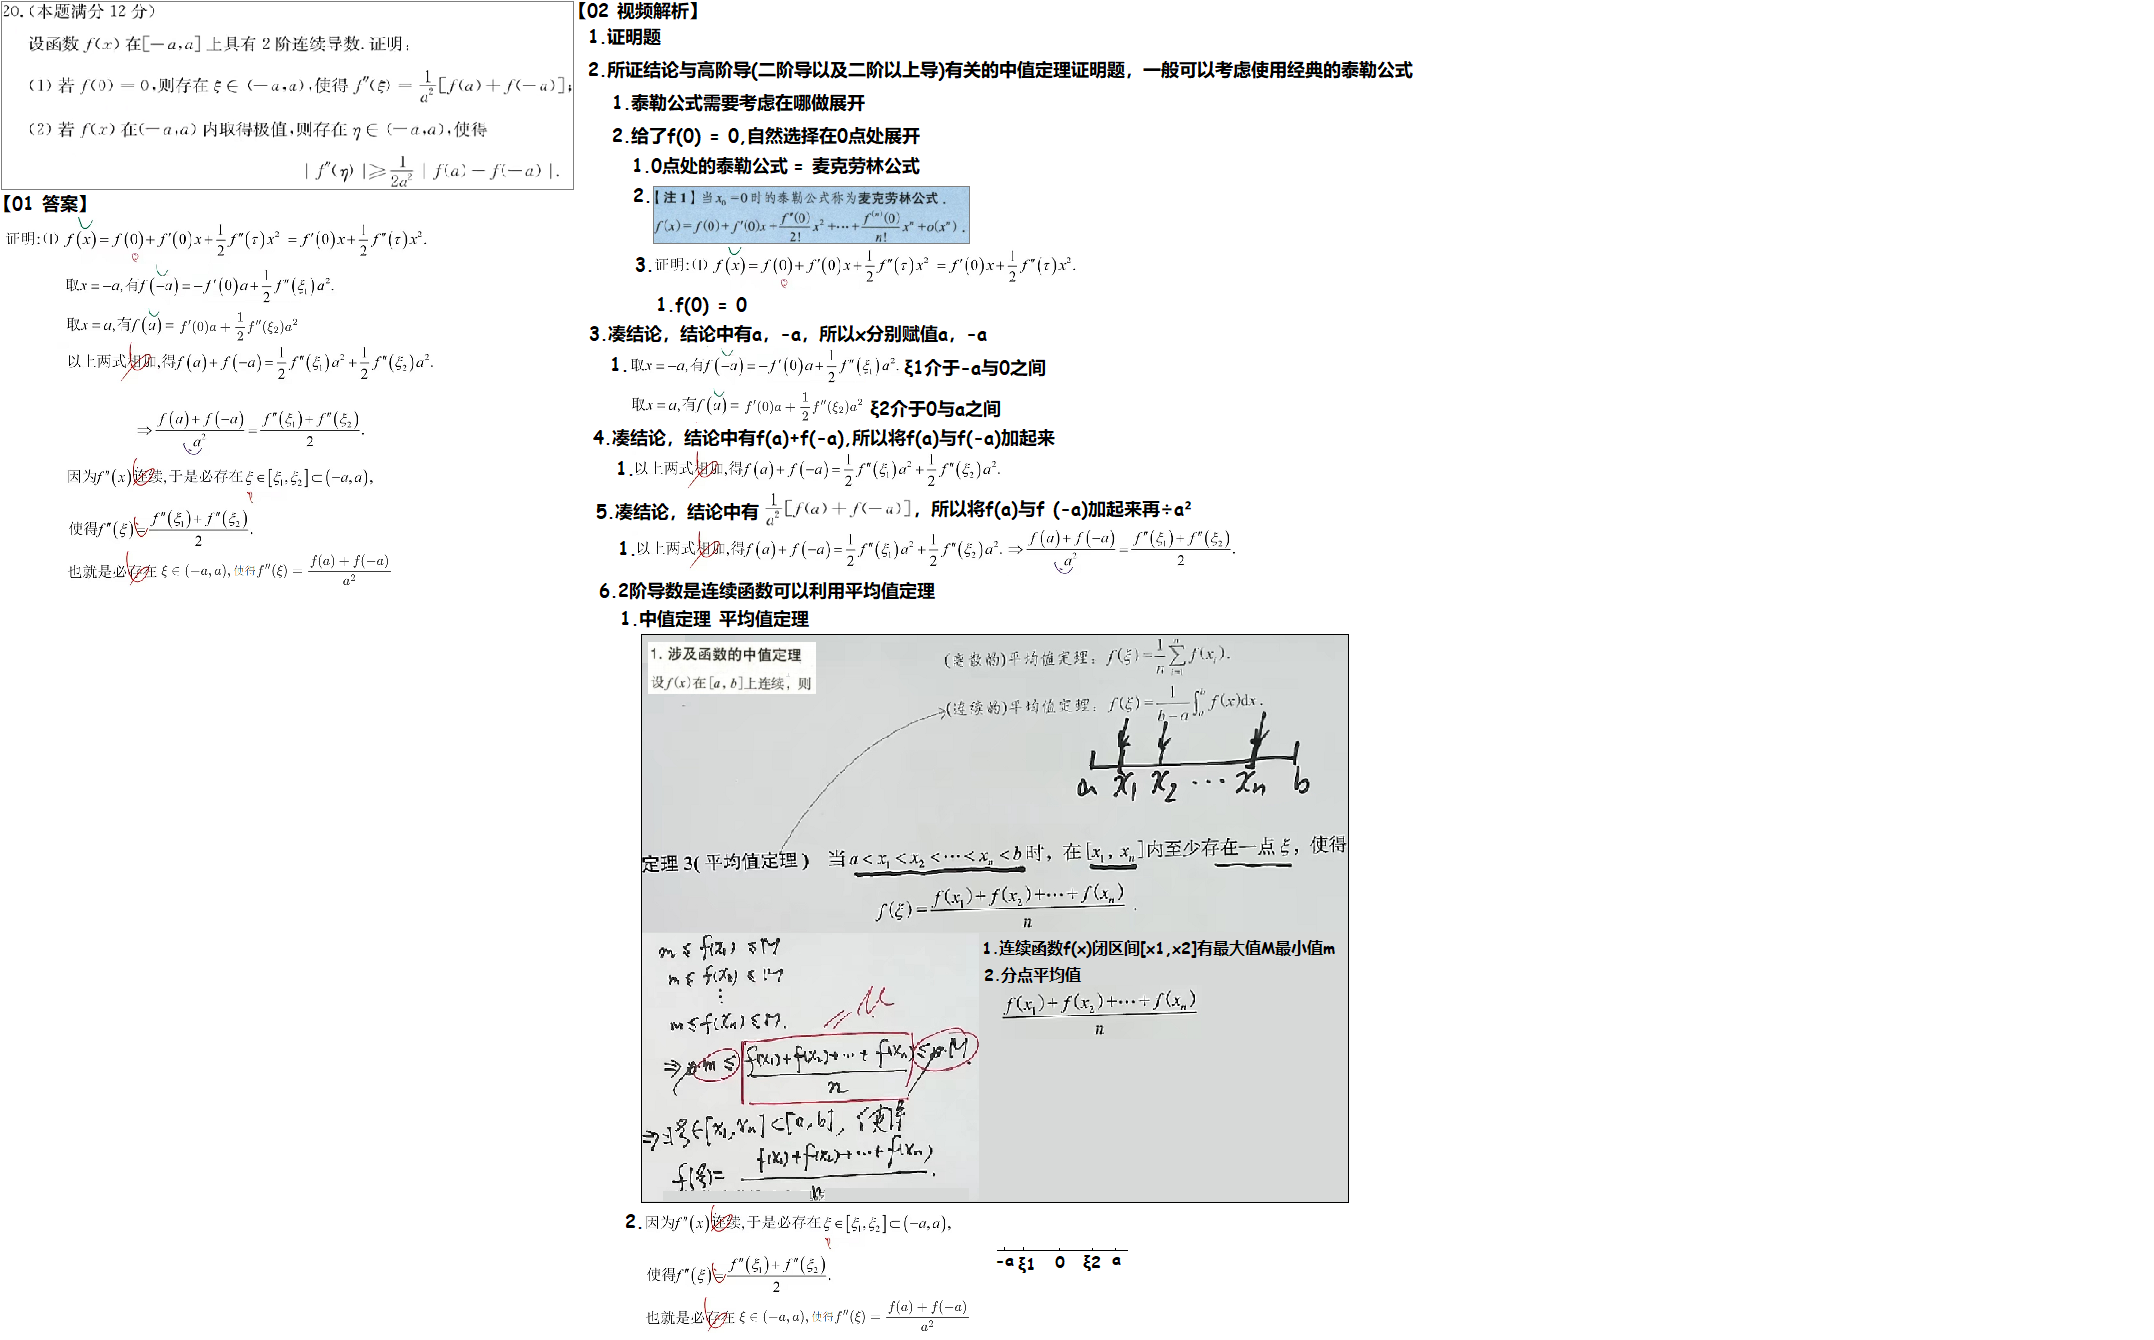
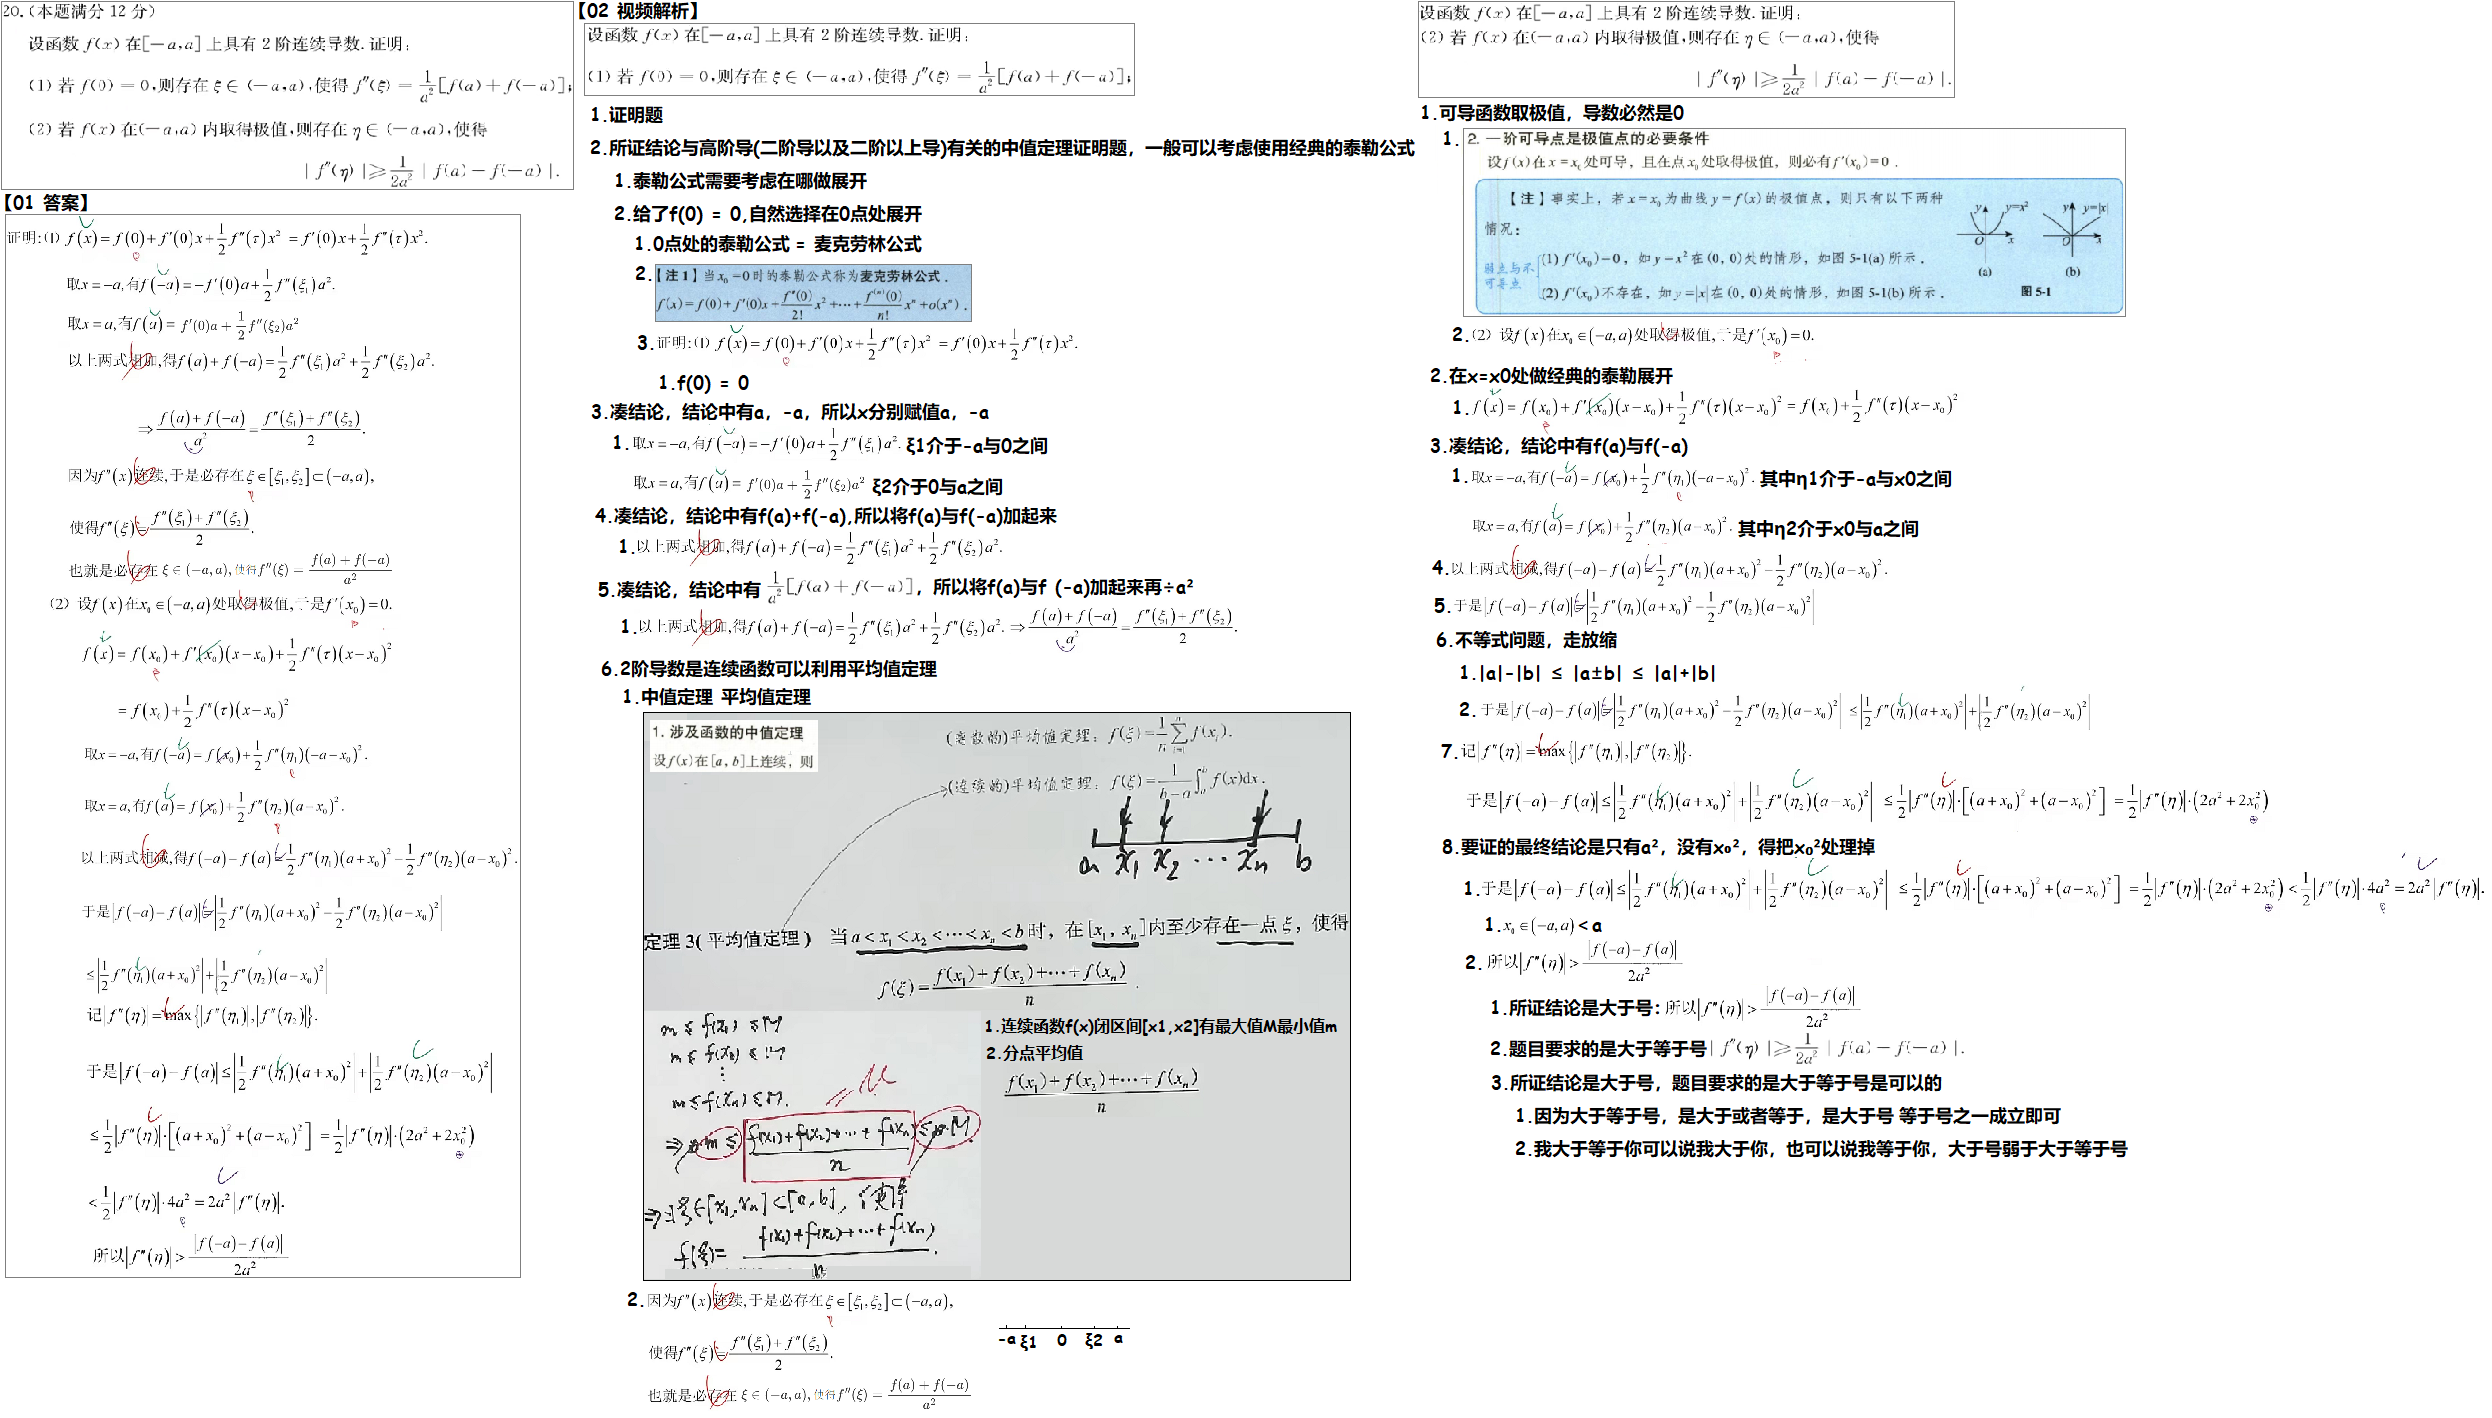
241017

diff --git a/01 题集 16/01 高数 16 = 13 + 2 + 1/01 23 13 = 9 + 4/02 大题 4/04 解答题20 麦克劳林公式 泰勒公式 241003/02 Doc.md b/01 题集 16/01 高数 16 = 13 + 2 + 1/01 23 13 = 9 + 4/02 大题 4/04 解答题20 麦克劳林公式 泰勒公式 241003/02 Doc.md
@@ -18,7 +18,7 @@
 
 # 03 视频消化
 
-<img src="https://cvp.oss-cn-shanghai.aliyuncs.com/202410130859919.png" alt="image-20241013085923772" style="zoom:50%;" />
+<img src="https://cvp.oss-cn-shanghai.aliyuncs.com/202410170938251.png" alt="image-20241017093758014" style="zoom:50%;" />
 
 
 
